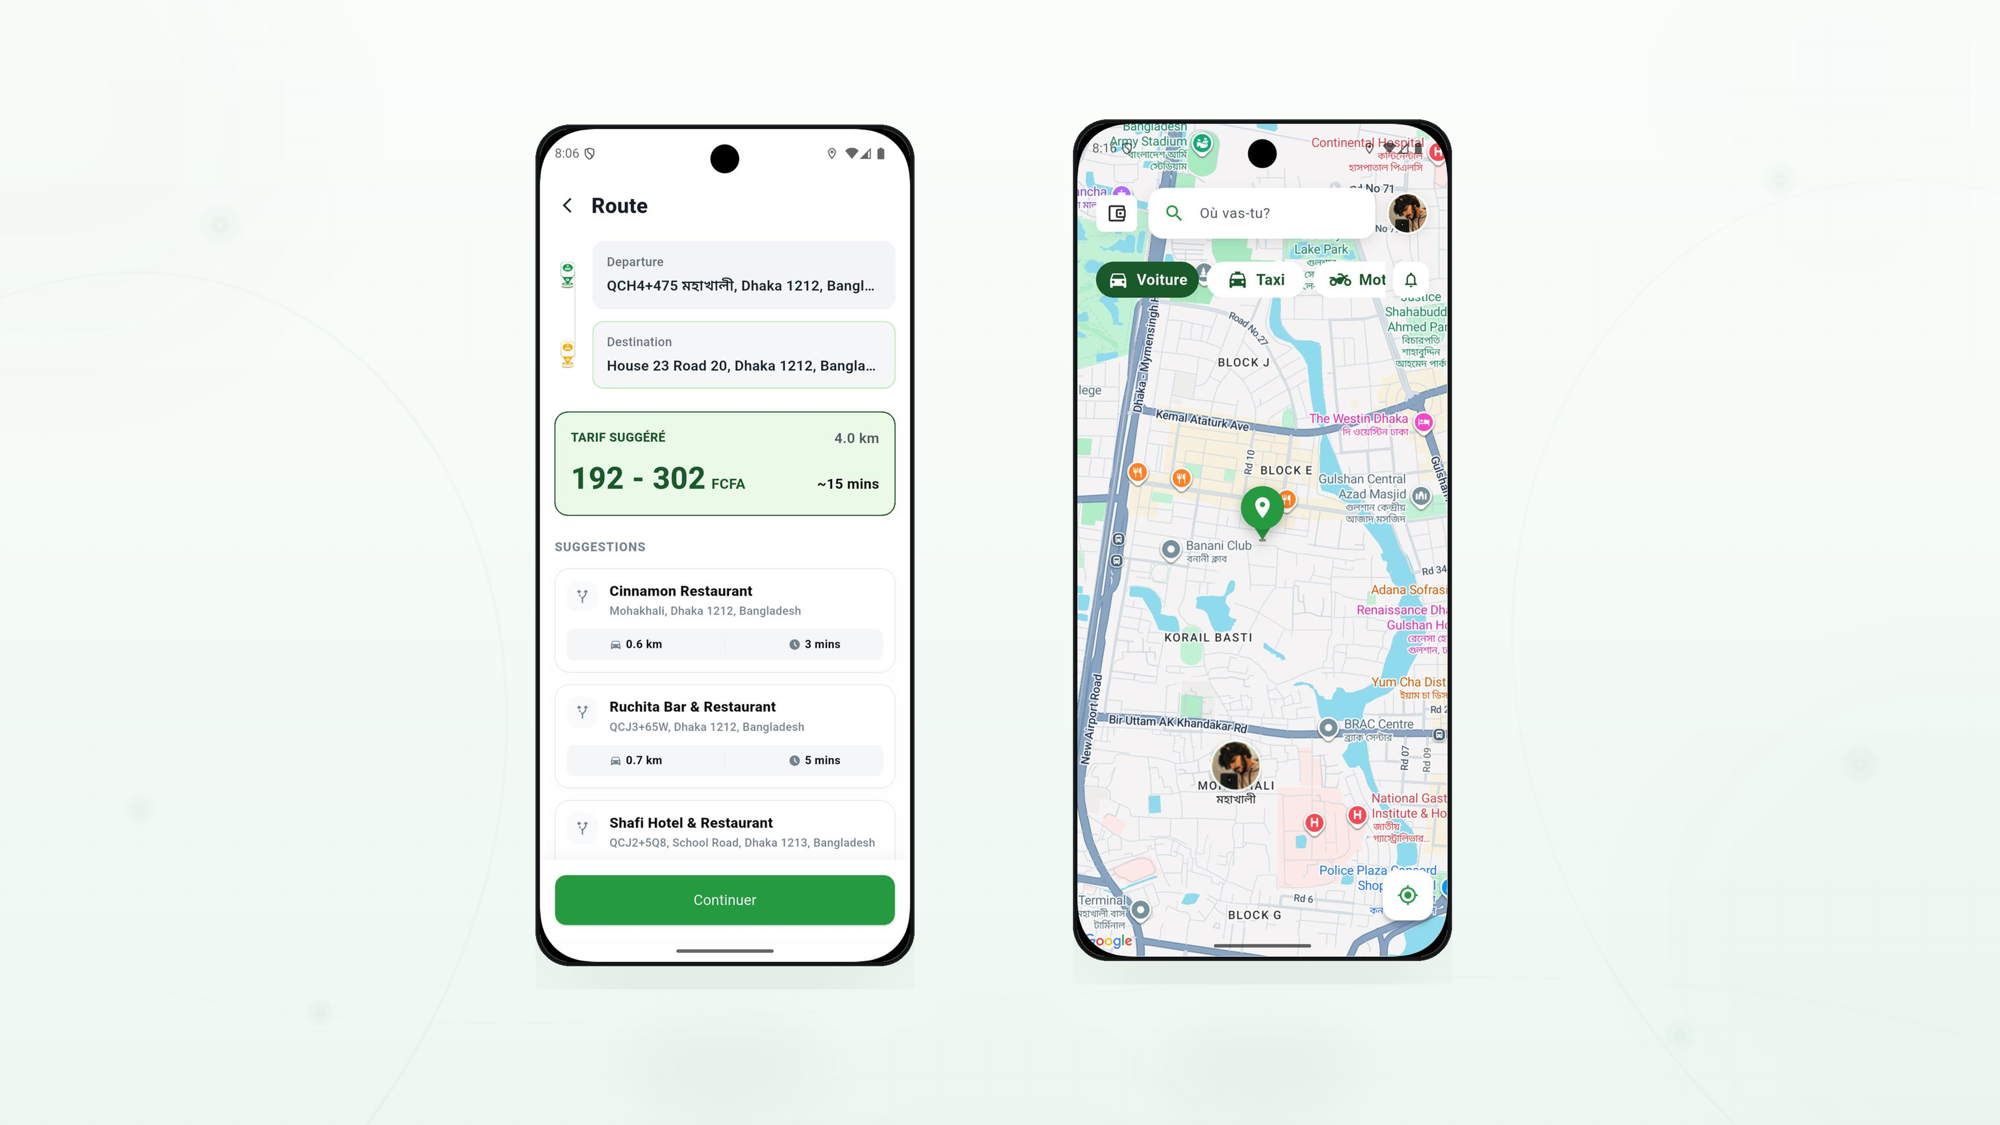
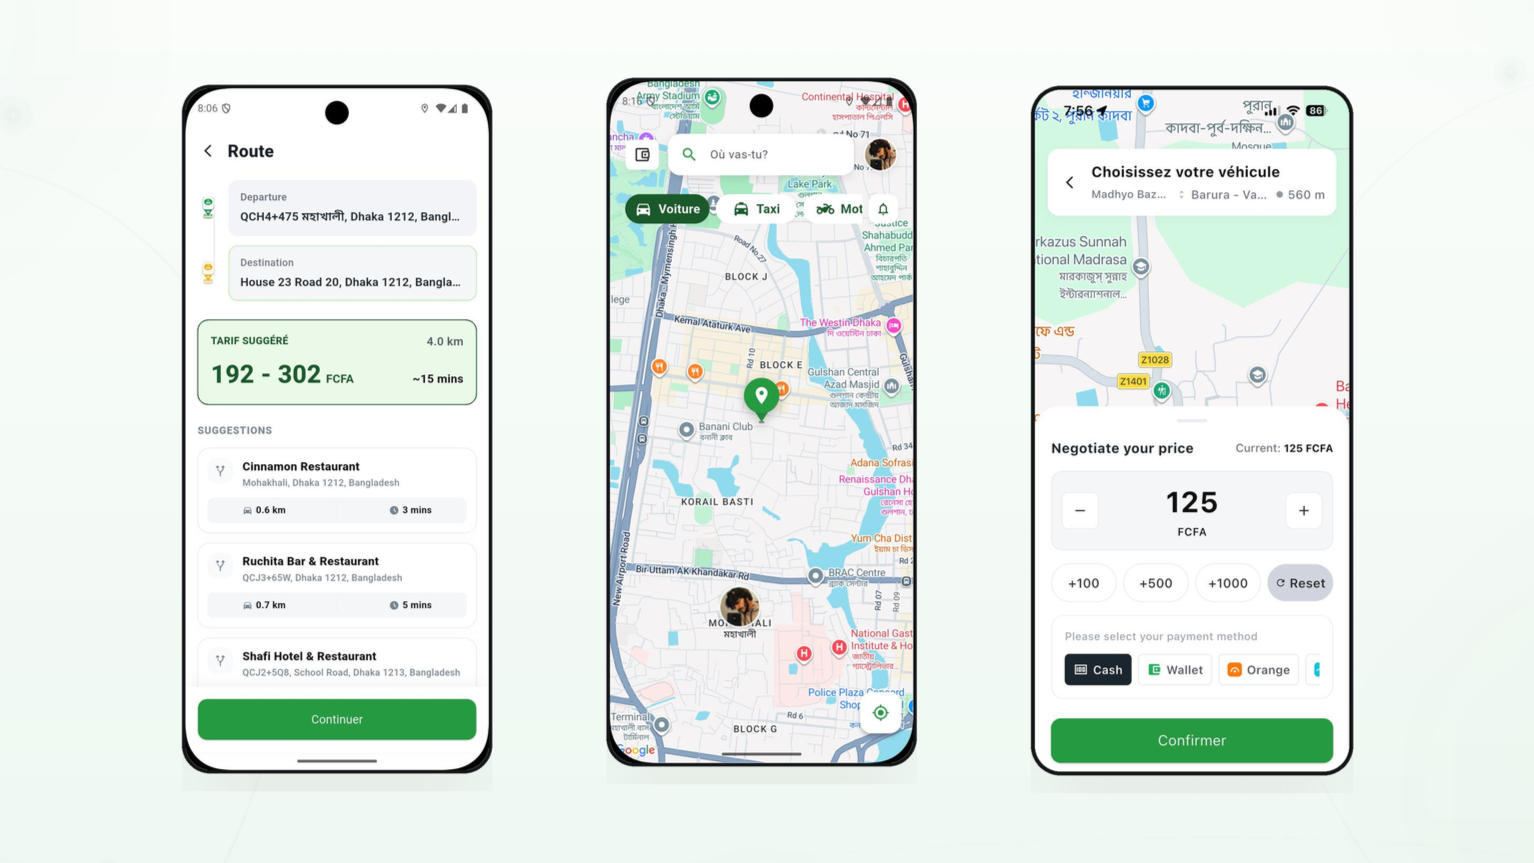
live app ui update

Changed region(s): [[0.0919, 0.0904, 0.8885, 0.9038], [0.766, 0.5724, 0.7966, 0.6327], [0.1532, 0.1506, 0.1838, 0.1808]]

diff --git a/lib/features/portfolio/views/widgets/cards/live_app_card.dart b/lib/features/portfolio/views/widgets/cards/live_app_card.dart
@@ -3,7 +3,9 @@ import 'package:google_fonts/google_fonts.dart';
 import 'package:my_portfolio/core/constants/app_tokens.dart';
 import 'package:my_portfolio/core/utils/app_screen_util.dart';
 import 'package:my_portfolio/features/portfolio/models/live_app_model.dart';
+import 'package:my_portfolio/features/portfolio/viewmodels/portfolio_controller.dart';
 import 'package:url_launcher/url_launcher.dart';
+import 'package:get/get.dart';
 
 class LiveAppCard extends StatefulWidget {
   final LiveAppModel app;
@@ -27,6 +29,8 @@ class _LiveAppCardState extends State<LiveAppCard> {
 
   @override
   Widget build(BuildContext context) {
+    final ctrl = Get.find<PortfolioController>();
+
     return MouseRegion(
       onEnter: (_) => setState(() => _isHovered = true),
       onExit: (_) => setState(() => _isHovered = false),
@@ -37,9 +41,7 @@ class _LiveAppCardState extends State<LiveAppCard> {
         child: Container(
           decoration: BoxDecoration(
             borderRadius: BorderRadius.circular(AppTokens.r16.r),
-            border: Border.all(
-              color: AppTokens.border.withValues(alpha: 0.5),
-            ),
+            border: Border.all(color: AppTokens.border.withValues(alpha: 0.5)),
           ),
           clipBehavior: Clip.antiAlias,
           child: AspectRatio(
@@ -48,11 +50,8 @@ class _LiveAppCardState extends State<LiveAppCard> {
               fit: StackFit.expand,
               children: [
                 // Background Image
-                Image.asset(
-                  widget.app.coverImagePath,
-                  fit: BoxFit.cover,
-                ),
-                
+                Image.asset(widget.app.coverImagePath, fit: BoxFit.cover),
+
                 // Hover Overlay Gradient
                 AnimatedContainer(
                   duration: const Duration(milliseconds: 300),
@@ -118,35 +117,83 @@ class _LiveAppCardState extends State<LiveAppCard> {
                           overflow: TextOverflow.ellipsis,
                         ),
                         SizedBox(height: AppTokens.s16.h),
-                        
+
                         // Features Wrap
-                        Expanded(
-                          child: Wrap(
-                            spacing: AppTokens.s12.w,
-                            runSpacing: AppTokens.s8.h,
-                            children: widget.app.features.map(
-                              (feature) => Row(
-                                mainAxisSize: MainAxisSize.min,
-                                children: [
-                                  Icon(
-                                    Icons.check_circle_outline,
-                                    size: 16,
-                                    color: AppTokens.accent,
-                                  ),
-                                  SizedBox(width: AppTokens.s6.w),
-                                  Text(
-                                    feature,
-                                    style: GoogleFonts.inter(
-                                      color: Colors.white,
-                                      fontSize: 12.sp,
+                        Wrap(
+                          spacing: AppTokens.s8.w,
+                          runSpacing: AppTokens.s4.h,
+                          children: widget.app.features
+                              .map(
+                                (feature) => Row(
+                                  mainAxisSize: MainAxisSize.min,
+                                  children: [
+                                    Icon(
+                                      Icons.check_circle,
+                                      size: 12,
+                                      color: AppTokens.accent,
                                     ),
-                                  ),
-                                ],
-                              ),
-                            ).toList(),
+                                    SizedBox(width: AppTokens.s4.w),
+                                    Text(
+                                      feature,
+                                      style: GoogleFonts.inter(
+                                        color: Colors.white,
+                                        fontSize: 11.sp,
+                                      ),
+                                    ),
+                                  ],
+                                ),
+                              )
+                              .toList(),
+                        ),
+
+                        SizedBox(height: AppTokens.s12.h),
+
+                        // Tech Stack Section
+                        Text(
+                          'Technology Stack:',
+                          style: GoogleFonts.inter(
+                            color: Colors.white,
+                            fontSize: 12.sp,
+                            fontWeight: FontWeight.w600,
                           ),
                         ),
-                        
+                        SizedBox(height: AppTokens.s4.h),
+                        Expanded(
+                          child: SingleChildScrollView(
+                            child: Column(
+                              crossAxisAlignment: CrossAxisAlignment.start,
+                              children: ctrl.techIntegrations.map((item) {
+                                return Padding(
+                                  padding: EdgeInsets.only(
+                                    bottom: AppTokens.s4.h,
+                                  ),
+                                  child: RichText(
+                                    text: TextSpan(
+                                      style: GoogleFonts.inter(
+                                        color: Colors.white70,
+                                        fontSize: 10.sp,
+                                        height: 1.3,
+                                      ),
+                                      children: [
+                                        TextSpan(
+                                          text: '${item['category']}: ',
+                                          style: const TextStyle(
+                                            color: AppTokens.accent,
+                                            fontWeight: FontWeight.w600,
+                                          ),
+                                        ),
+                                        TextSpan(text: item['details']),
+                                      ],
+                                    ),
+                                  ),
+                                );
+                              }).toList(),
+                            ),
+                          ),
+                        ),
+
+                        SizedBox(height: AppTokens.s12.h),
+
                         // Store Buttons
                         Row(
                           children: [
@@ -154,20 +201,25 @@ class _LiveAppCardState extends State<LiveAppCard> {
                               _StoreButton(
                                 icon: Icons.flight_takeoff,
                                 label: 'TestFlight',
-                                onTap: () => _launchUrl(widget.app.testFlightLink),
+                                onTap: () =>
+                                    _launchUrl(widget.app.testFlightLink),
                               ),
-                            if (widget.app.appStoreLink != null && widget.app.testFlightLink == null)
+                            if (widget.app.appStoreLink != null &&
+                                widget.app.testFlightLink == null)
                               _StoreButton(
                                 icon: Icons.apple,
                                 label: 'App Store',
-                                onTap: () => _launchUrl(widget.app.appStoreLink),
+                                onTap: () =>
+                                    _launchUrl(widget.app.appStoreLink),
                               ),
-                            if (widget.app.playStoreLink != null && widget.app.testFlightLink == null) ...[
+                            if (widget.app.playStoreLink != null &&
+                                widget.app.testFlightLink == null) ...[
                               SizedBox(width: AppTokens.s12.w),
                               _StoreButton(
                                 icon: Icons.play_arrow,
                                 label: 'Play Store',
-                                onTap: () => _launchUrl(widget.app.playStoreLink),
+                                onTap: () =>
+                                    _launchUrl(widget.app.playStoreLink),
                               ),
                             ],
                           ],

diff --git a/lib/features/portfolio/views/sections/live_apps_section.dart b/lib/features/portfolio/views/sections/live_apps_section.dart
@@ -21,17 +21,18 @@ class LiveAppsSection extends StatelessWidget {
         crossAxisAlignment: CrossAxisAlignment.start,
         children: [
           const PortfolioSectionHeader(
-            sectionIndex: '02', // Assuming it replaces Featured Projects which is 03? We'll let it share numbering or skip. Wait, Featured Projects is 03 in projects_section.dart. Let's not use an index if it's part of Projects, or just use 02.5. Let's omit sectionIndex.
+            sectionIndex:
+                '02', // Assuming it replaces Featured Projects which is 03? We'll let it share numbering or skip. Wait, Featured Projects is 03 in projects_section.dart. Let's not use an index if it's part of Projects, or just use 02.5. Let's omit sectionIndex.
             title: 'Live Apps',
             subtitle: 'Products I have built that are currently in production.',
           ),
           SizedBox(height: AppTokens.s16.h),
-          
+
           // Live Apps Grid
           LayoutBuilder(
             builder: (context, constraints) {
               final isWide = constraints.maxWidth > 700;
-              
+
               if (isWide) {
                 return Row(
                   crossAxisAlignment: CrossAxisAlignment.start,
@@ -51,75 +52,6 @@ class LiveAppsSection extends StatelessWidget {
                 );
               }
             },
-          ),
-          
-          SizedBox(height: AppTokens.s24.h),
-          
-          // Technology Stack & Integrations
-          Container(
-            padding: EdgeInsets.all(AppTokens.s20.w),
-            decoration: BoxDecoration(
-              color: AppTokens.surfaceAlt,
-              borderRadius: BorderRadius.circular(AppTokens.r16.r),
-              border: Border.all(
-                color: AppTokens.border.withValues(alpha: 0.5),
-              ),
-            ),
-            child: Column(
-              crossAxisAlignment: CrossAxisAlignment.start,
-              children: [
-                Text(
-                  'Technology Stack & Integrations',
-                  style: GoogleFonts.inter(
-                    color: AppTokens.textPrimary,
-                    fontSize: 16.sp,
-                    fontWeight: FontWeight.w600,
-                  ),
-                ),
-                SizedBox(height: AppTokens.s12.h),
-                ...ctrl.techIntegrations.map((item) {
-                  return Padding(
-                    padding: EdgeInsets.only(bottom: AppTokens.s8.h),
-                    child: Row(
-                      crossAxisAlignment: CrossAxisAlignment.start,
-                      children: [
-                        Text(
-                          '• ',
-                          style: GoogleFonts.inter(
-                            color: AppTokens.accent,
-                            fontSize: 14.sp,
-                            fontWeight: FontWeight.bold,
-                          ),
-                        ),
-                        Expanded(
-                          child: RichText(
-                            text: TextSpan(
-                              style: GoogleFonts.inter(
-                                color: AppTokens.textSecondary,
-                                fontSize: 13.sp,
-                                height: 1.4,
-                              ),
-                              children: [
-                                TextSpan(
-                                  text: '${item['category']}: ',
-                                  style: const TextStyle(
-                                    fontWeight: FontWeight.w600,
-                                    color: AppTokens.textPrimary,
-                                  ),
-                                ),
-                                TextSpan(
-                                  text: item['details'],
-                                ),
-                              ],
-                            ),
-                          ),
-                        ),
-                      ],
-                    ),
-                  );
-                }),
-              ],
-            ),
           ),
         ],
       ),
